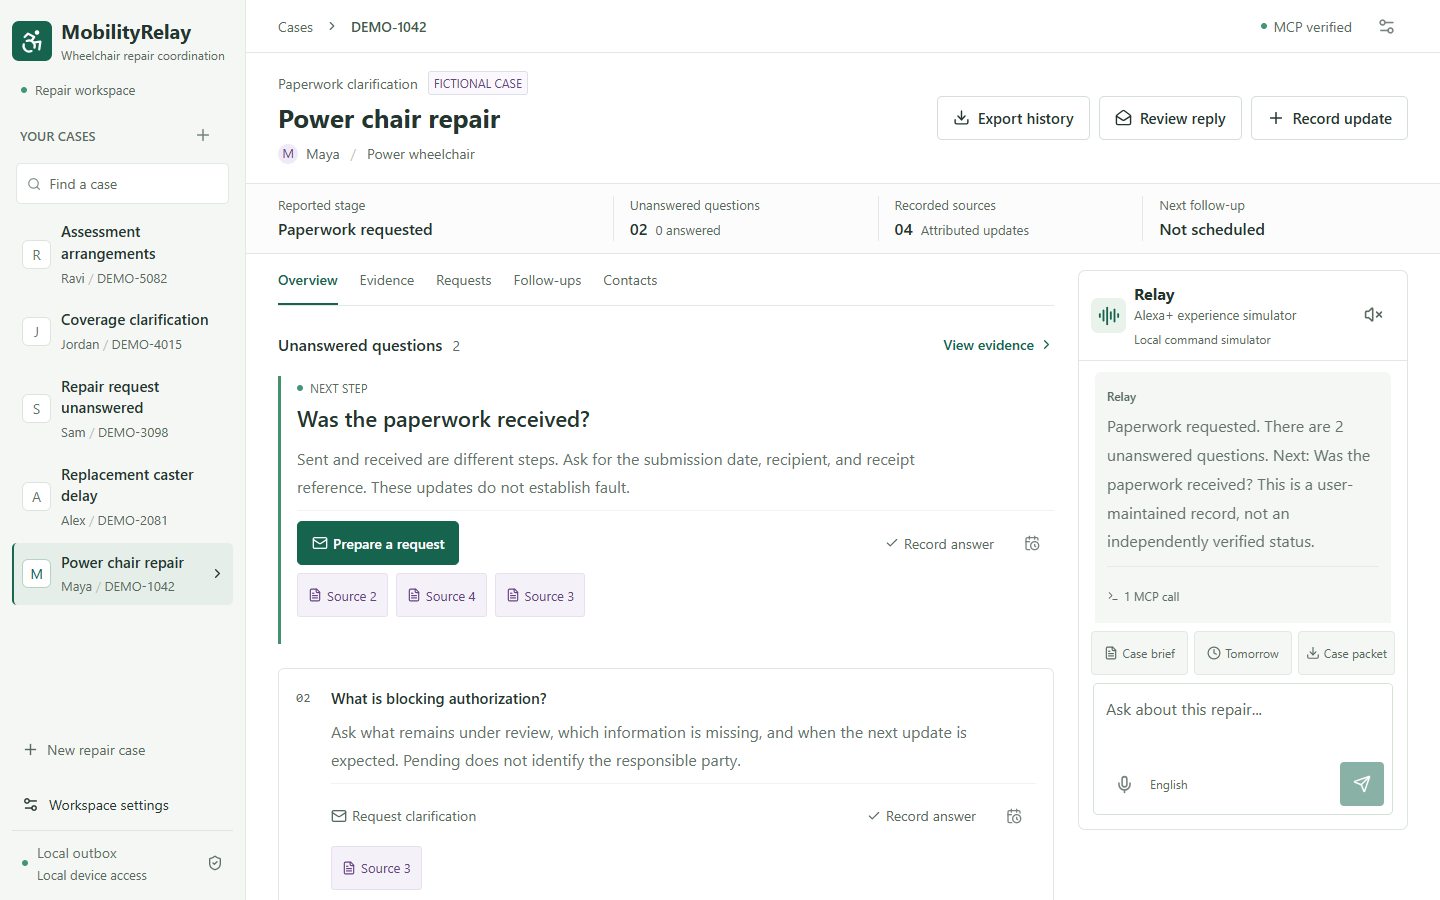
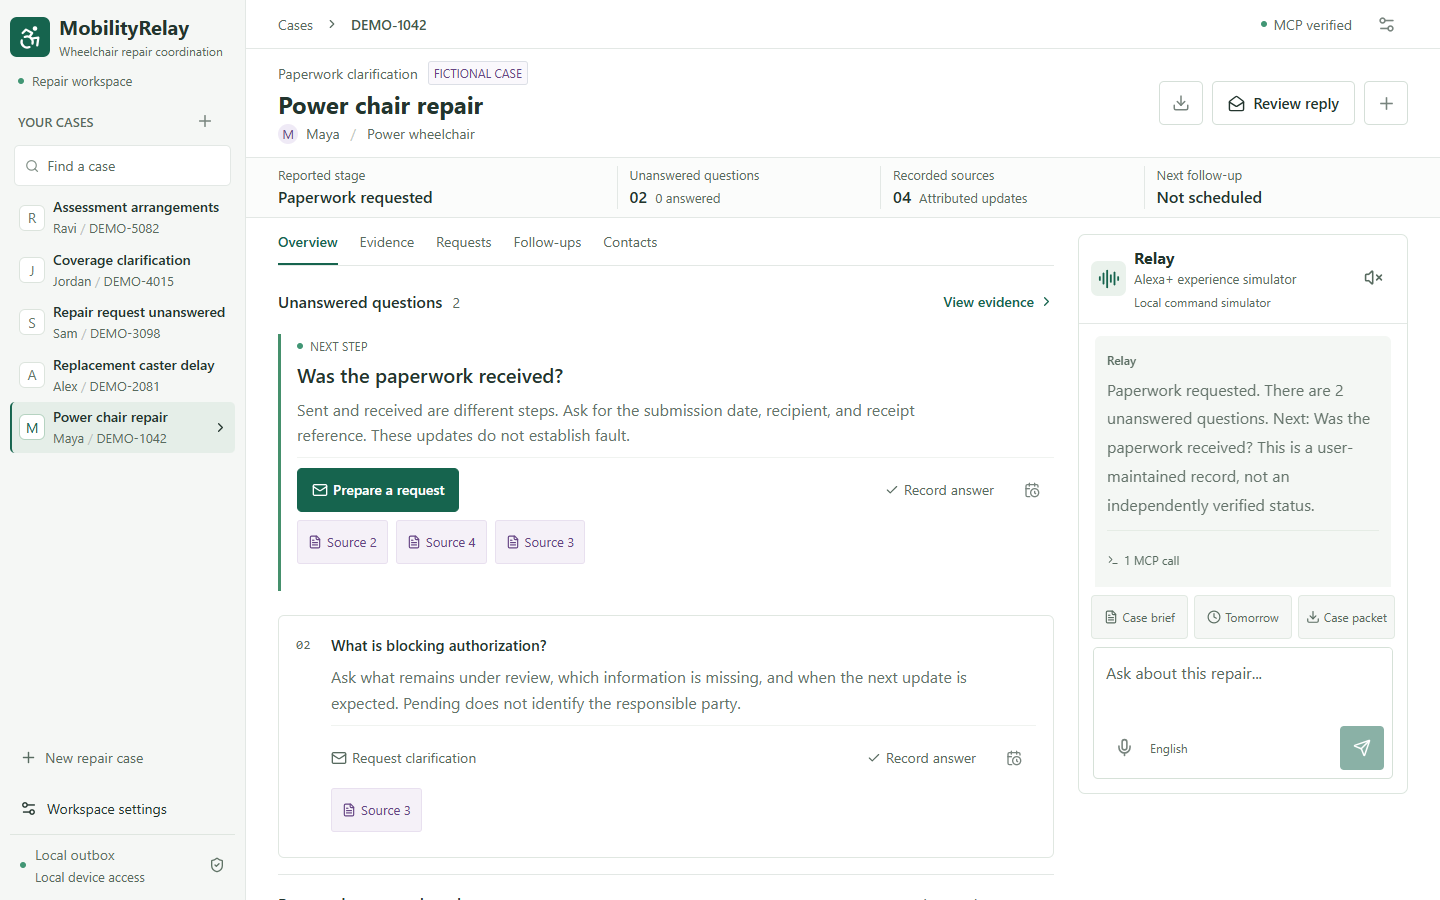
Refine workspace density and unclipped conversation state

diff --git a/src/App.tsx b/src/App.tsx
@@ -19,9 +19,17 @@ export default function App() {
   const [brief, setBrief] = useState<Brief | null>(null); const [messages, setMessages] = useState<ChatMessage[]>([]); const [settings, setSettings] = useState<Settings | null>(null);
   const [tab, setTab] = useState<Tab>('Overview'); const [dialog, setDialog] = useState<Dialog | null>(null); const [busy, setBusy] = useState(false); const [error, setError] = useState(''); const [notice, setNotice] = useState('');
   const [search, setSearch] = useState(''); const [sidebar, setSidebar] = useState(false); const [highlight, setHighlight] = useState(''); const [traces, setTraces] = useState<ToolTrace[]>([]);
+  const caseNavigation = useRef<HTMLElement>(null);
   const [mobile, setMobile] = useState(() => matchMedia('(max-width: 1000px), (max-height: 600px)').matches); const [relayOpen, setRelayOpen] = useState(false);
   useEffect(() => { const media = matchMedia('(max-width: 1000px), (max-height: 600px)'); const change = () => setMobile(media.matches); media.addEventListener('change', change); return () => media.removeEventListener('change', change); }, []);
   selectedRef.current = selected;
+  useEffect(() => {
+    const navigation = caseNavigation.current; const active = navigation?.querySelector('.case-nav.selected');
+    if (!navigation || !active || !navigation.getClientRects().length) return;
+    const bounds = navigation.getBoundingClientRect(); const item = active.getBoundingClientRect();
+    if (item.bottom > bounds.bottom) navigation.scrollTop += item.bottom - bounds.bottom;
+    else if (item.top < bounds.top) navigation.scrollTop -= bounds.top - item.top;
+  }, [selected, cases.length, sidebar]);
   const addTraces = (next: ToolTrace[]) => setTraces(current => [...next, ...current].slice(0, 30));
   const loadCases = async (generation = refreshGeneration.current) => { const list = await api<RepairCase[]>('/api/cases'); if (generation === refreshGeneration.current) setCases(list); return list; };
   const refresh = async (id = selectedRef.current) => {
@@ -85,12 +93,12 @@ export default function App() {
   if (!authenticated) return <main className="login"><Brand /><h1>Sign in to your workspace</h1>{error && <p role="alert" className="error">{error}</p>}<form onSubmit={e => { e.preventDefault(); void run(async () => { const result = await post<{ csrf: string }>('/api/login', { password }); setCsrf(result.csrf); setAuthenticated(true); setSettings(await api('/api/settings')); await loadCases().then(list => setSelected(list[0]?.id ?? '')); }); }}><label>Workspace password<input type="password" autoComplete="current-password" value={password} onChange={e => setPassword(e.target.value)} required /></label><button className="primary" disabled={busy}>Sign in</button></form></main>;
   return <FeedbackContext.Provider value={{ error, busy }}><div className="app-shell">
     {sidebar && <button className="sidebar-scrim" aria-label="Close case navigation" onClick={() => setSidebar(false)} />}
-    <aside className={`sidebar ${sidebar ? 'mobile-open' : ''}`}><Brand><IconButton label="Close navigation" className="mobile-only" onClick={() => setSidebar(false)}><X size={18} /></IconButton></Brand><div className="workspace-label"><span className="status-dot" /> Repair workspace</div><div className="nav-heading"><span>YOUR CASES</span><IconButton label="Create case" onClick={() => setDialog({ type: 'case' })} disabled={busy}><Plus size={18} /></IconButton></div><label className="case-search"><Search size={16} /><input aria-label="Search cases" value={search} onChange={e => setSearch(e.target.value)} placeholder="Find a case" /></label><nav aria-label="Repair cases">{cases.filter(c => `${c.title} ${c.person} ${c.reference}`.toLowerCase().includes(search.toLowerCase())).map(c => <button key={c.id} className={`case-nav ${selected === c.id ? 'selected' : ''}`} onClick={() => choose(c.id)} disabled={busy}><span className="case-avatar">{c.person.slice(0, 1).toUpperCase()}</span><span><strong>{c.title}</strong><small>{c.person} <span> / </span> {c.reference || c.category}</small></span>{selected === c.id && <ChevronRight size={15} />}</button>)}</nav><button className="new-case" onClick={() => setDialog({ type: 'case' })} disabled={busy}><Plus size={17} /> New repair case</button><div className="sidebar-bottom"><button onClick={() => setDialog({ type: 'settings' })}><Settings2 size={17} /> Workspace settings</button><div className="local-status"><span className="status-dot" /><span>{settings?.mailMode === 'smtp' ? 'SMTP configured' : 'Local outbox'}<small>{settings?.protected ? 'Password protected' : 'Local device access'}</small></span><ShieldCheck size={16} /></div></div></aside>
+    <aside className={`sidebar ${sidebar ? 'mobile-open' : ''}`}><Brand><IconButton label="Close navigation" className="mobile-only" onClick={() => setSidebar(false)}><X size={18} /></IconButton></Brand><div className="workspace-label"><span className="status-dot" /> Repair workspace</div><div className="nav-heading"><span>YOUR CASES</span><IconButton label="Create case" onClick={() => setDialog({ type: 'case' })} disabled={busy}><Plus size={18} /></IconButton></div><label className="case-search"><Search size={16} /><input aria-label="Search cases" value={search} onChange={e => setSearch(e.target.value)} placeholder="Find a case" /></label><nav ref={caseNavigation} aria-label="Repair cases">{cases.filter(c => `${c.title} ${c.person} ${c.reference}`.toLowerCase().includes(search.toLowerCase())).map(c => <button key={c.id} className={`case-nav ${selected === c.id ? 'selected' : ''}`} onClick={() => choose(c.id)} disabled={busy}><span className="case-avatar">{c.person.slice(0, 1).toUpperCase()}</span><span><strong>{c.title}</strong><small>{c.person} <span> / </span> {c.reference || c.category}</small></span>{selected === c.id && <ChevronRight size={15} />}</button>)}</nav><button className="new-case" onClick={() => setDialog({ type: 'case' })} disabled={busy}><Plus size={17} /> New repair case</button><div className="sidebar-bottom"><button onClick={() => setDialog({ type: 'settings' })}><Settings2 size={17} /> Workspace settings</button><div className="local-status"><span className="status-dot" /><span>{settings?.mailMode === 'smtp' ? 'SMTP configured' : 'Local outbox'}<small>{settings?.protected ? 'Password protected' : 'Local device access'}</small></span><ShieldCheck size={16} /></div></div></aside>
     <div className="workspace"><header className="topbar"><div><IconButton label="Open case navigation" className="mobile-only" onClick={() => setSidebar(true)}><Menu size={21} /></IconButton><span className="desktop-only">Cases</span><span className="mobile-only mobile-brand">MobilityRelay</span><ChevronRight size={14} /><strong>{brief?.repairCase.reference || 'Workspace'}</strong></div><div><span className="mcp-status"><span className="status-dot" /> {brief ? 'MCP verified' : 'MCP pending'}</span>{mobile && brief && <button className="relay-launch" aria-label="Open Relay" title="Open Relay" onClick={() => setRelayOpen(true)}><AudioLines size={20} /><span>Relay</span></button>}<IconButton label="Workspace settings" onClick={() => setDialog({ type: 'settings' })}><Settings2 size={19} /></IconButton></div></header>
       {error && <div className="alert error" role="alert"><CircleHelp size={18} /><span>{error}</span><IconButton label="Dismiss error" onClick={() => setError('')}><X size={17} /></IconButton></div>}
       {notice && <div className="alert success" role="status"><CheckCircle2 size={18} /><span>{notice}</span></div>}
       {!brief ? <main className="empty-workspace">{selected ? <><LoaderCircle className="spin" size={24} /><h2>Loading case...</h2></> : <><FolderOpen size={42} /><h1>Your repair workspace</h1><button className="primary" onClick={() => setDialog({ type: 'case' })}><Plus size={17} /> New repair case</button></>}</main> : <>
-        <section className="case-heading"><div><div className="eyebrow"><span>{brief.repairCase.category}</span>{brief.repairCase.fictional && <span className="fictional-badge">FICTIONAL CASE</span>}</div><h1>{brief.repairCase.title}</h1><p><span className="person-initial">{brief.repairCase.person.slice(0, 1)}</span>{brief.repairCase.person}<span className="separator">/</span>{brief.repairCase.equipment}</p></div><div className="heading-actions"><button className="secondary compact-action" aria-label="Export history" title="Export history" onClick={() => setDialog({ type: 'export' })} disabled={busy}><Download size={17} /><span>Export history</span></button><button className="secondary" onClick={() => setDialog({ type: 'reply' })} disabled={busy}><MailOpen size={17} /> Review reply</button><button className="secondary compact-action" aria-label="Record update" title="Record update" onClick={() => setDialog({ type: 'event' })} disabled={busy}><Plus size={18} /><span>Record update</span></button></div></section>
+        <section className="case-heading"><div><div className="eyebrow"><span>{brief.repairCase.category}</span>{brief.repairCase.fictional && <span className="fictional-badge">FICTIONAL CASE</span>}</div><h1>{brief.repairCase.title}</h1><p><span className="person-initial">{brief.repairCase.person.slice(0, 1)}</span>{brief.repairCase.person}<span className="separator">/</span>{brief.repairCase.equipment}</p></div><div className="heading-actions"><IconButton className="secondary compact-action" label="Export history" onClick={() => setDialog({ type: 'export' })} disabled={busy}><Download size={18} /></IconButton><button className="secondary" onClick={() => setDialog({ type: 'reply' })} disabled={busy}><MailOpen size={17} /> Review reply</button><IconButton className="secondary compact-action" label="Record update" onClick={() => setDialog({ type: 'event' })} disabled={busy}><Plus size={19} /></IconButton></div></section>
         <div className="case-metrics"><div><span>Reported stage</span><strong>{brief.reportedStage}</strong></div><div><span>Unanswered questions</span><strong>{open.length.toString().padStart(2, '0')}<small>{answered.length} answered</small></strong></div><div><span>Recorded sources</span><strong>{brief.events.length.toString().padStart(2, '0')}<small>Attributed updates</small></strong></div><div><span>Next follow-up</span><strong>{scheduled[0] ? time(scheduled[0].dueAt, scheduled[0].timezone) : 'Not scheduled'}{scheduled[0] && <small>{scheduled[0].timezone}</small>}</strong></div></div>
         <div className={`content-layout ${mobile ? 'relay-drawer-layout' : ''}`}><main className="case-content"><div className="tabs" role="tablist" aria-label="Case views">{(['Overview', 'Evidence', 'Requests', 'Follow-ups', 'Contacts'] as Tab[]).map(t => <button key={t} role="tab" aria-selected={tab === t} className={tab === t ? 'active' : ''} onClick={() => setTab(t)}>{t}{t === 'Requests' && drafts.length > 0 && <span>{drafts.length}</span>}</button>)}</div>
           {tab === 'Overview' && <>

diff --git a/src/styles.css b/src/styles.css
@@ -146,8 +146,6 @@ h1, h2, h3, p { margin-top: 0; }
 .assistant-heading span { font-size: 12px; color: #8d998f; }
 .assistant-heading .simulator-label { display: block; font-size: 14px; line-height: 1.5; color: #586c60; margin-bottom: 3px; overflow-wrap: anywhere; }
 .conversation { overflow-y: auto; flex: 1; padding: 16px; min-height: 180px; }
-.assistant-empty { text-align: center; padding: 64px 12px 20px; color: #a2b4a9; }
-.assistant-empty h3 { font-size: 16px; color: #587460; font-weight: 500; margin: 17px 0 8px; }
 .assistant-empty p { font-size: 14px; color: #93a198; }
 .message { margin-bottom: 18px; padding: 12px 12px 10px; background: #f4f7f4; border-radius: 6px; overflow-wrap: anywhere; }
 .message.message-user { background: #fff; border-left: 2px solid #c3d7cb; padding-left: 10px; }
@@ -354,27 +352,36 @@ input::placeholder, textarea::placeholder { color: var(--muted); }
 }
 
 /* Keep the current task above supporting history without reducing readable type. */
-.sidebar { padding: 18px 12px 12px; overflow: hidden; }
+.sidebar { padding: 14px 10px 10px; overflow: hidden; }
 .sidebar > :not(nav) { flex-shrink: 0; }
 .sidebar nav { flex: 1 1 auto; min-height: 0; overflow-y: auto; scrollbar-width: thin; overscroll-behavior: contain; }
-.workspace-label { margin: 17px 9px 15px; }
-.case-search { margin-bottom: 8px; }
-.case-nav { padding: 9px 8px; }
-.case-nav small { margin-top: 3px; }
-.sidebar-bottom { margin-top: 0; padding-top: 10px; }
-.local-status { padding-top: 12px; margin-top: 4px; }
-.topbar { min-height: 52px; padding-block: 4px; }
-.case-heading { padding-block: 18px; gap: 16px; }
-.case-heading h1 { margin-bottom: 8px; font-size: 26px; }
-.eyebrow { margin-bottom: 7px; }
-.case-metrics { padding-block: 12px; gap: 16px; }
+.workspace-label { margin: 12px 8px 10px; }
+.nav-heading { margin-bottom: 2px; }
+.case-search { margin-bottom: 6px; }
+.sidebar nav { gap: 2px; }
+.case-nav { min-height: 44px; padding: 6px 7px; gap: 8px; }
+.case-nav strong { font-size: 14px; line-height: 1.35; }
+.case-nav small { margin-top: 2px; line-height: 1.35; }
+.case-avatar { width: 26px; height: 26px; flex-basis: 26px; }
+.new-case { min-height: 44px; padding-block: 10px; }
+.sidebar-bottom { margin-top: 0; padding-top: 8px; }
+.local-status { padding-top: 10px; margin-top: 4px; }
+.topbar { min-height: 48px; padding-block: 2px; }
+.case-heading { padding-block: 12px; gap: 14px; }
+.case-heading h1 { margin-bottom: 4px; font-size: 24px; }
+.eyebrow { margin-bottom: 4px; }
+.heading-actions > .compact-action { flex: 0 0 44px; min-width: 44px; width: 44px; padding: 0; }
+.case-metrics { padding-block: 8px; gap: 12px; }
 .case-metrics > div > span { margin-bottom: 3px; }
+.case-metrics strong { line-height: 1.4; }
 .content-layout { gap: 24px; }
 .content-layout.relay-drawer-layout { grid-template-columns: minmax(0, 1fr); }
-.tabs { min-height: 52px; margin-bottom: 16px; }
-.tabs button { padding-block: 14px 12px; }
+.tabs { min-height: 48px; margin-bottom: 14px; }
+.tabs button { padding-block: 12px 10px; }
 .questions > .section-title { margin-bottom: 10px; }
 .question-item.next-step { padding-top: 4px; }
+.question-item.next-step h2 { font-size: 20px; line-height: 1.4; margin-bottom: 8px; }
+.question-item p { line-height: 1.6; }
 .section-kicker { margin-bottom: 7px; }
 .question-actions > button.primary { background: var(--green); color: #fff; padding: 10px 14px; border: 1px solid var(--green); }
 .question-actions > .primary:hover:not(:disabled) { background: var(--green-dark); color: #fff; }
@@ -398,8 +405,8 @@ input::placeholder, textarea::placeholder { color: var(--muted); }
 .assistant-commands { padding: 8px 12px; gap: 6px; flex-wrap: nowrap; }
 .assistant-commands button { flex: 1; min-width: 0; justify-content: center; padding: 8px 4px; gap: 4px; font-size: 12px; }
 .conversation { min-height: 48px; }
-.assistant-empty { padding: 22px 10px; }
-.assistant-empty h3 { margin-top: 12px; }
+.conversation.is-empty { display: flex; align-items: center; justify-content: center; padding: 8px 12px; min-height: 40px; }
+.assistant-empty { margin: 0; padding: 0; color: var(--muted); font-size: 14px; line-height: 20px; text-align: center; }
 .composer textarea { height: 72px; min-height: 72px; max-height: 72px; resize: none; }
 .modal .assistant { height: min(620px, calc(100dvh - 112px)); max-height: calc(100dvh - 112px); }
 @media (max-width: 760px) {

diff --git a/tests/qa.spec.ts b/tests/qa.spec.ts
@@ -4,6 +4,39 @@ import { mkdir, writeFile } from 'node:fs/promises';
 
 const viewTab = (page: Page, name: string) => page.getByRole('tab', { name: name === 'Requests' ? /^Requests(?: \d+)?$/ : name, exact: true });
 
+test('compact assessment workspace keeps icon commands accessible and the empty conversation unclipped', async ({ page }, info) => {
+  test.setTimeout(120000);
+  for (const viewport of [{ width: 1248, height: 680 }, { width: 1440, height: 900 }, { width: 390, height: 844 }]) {
+    await page.setViewportSize(viewport); await page.goto('/');
+    await expect(page.getByRole('heading', { name: 'Power chair repair', exact: true })).toBeVisible();
+    if (viewport.width <= 760) await page.getByRole('button', { name: 'Open case navigation', exact: true }).click();
+    await expect(page.locator('.case-nav.selected')).toBeInViewport({ ratio: 1 });
+    await page.getByRole('button', { name: /Assessment arrangements Ravi/ }).click();
+    await expect(page.getByRole('heading', { name: 'Assessment arrangements', exact: true })).toBeVisible();
+    for (const name of ['Export history', 'Record update']) {
+      const command = page.locator('.heading-actions').getByRole('button', { name, exact: true });
+      await expect(command).toHaveAttribute('title', name);
+      expect(await command.innerText()).toBe('');
+      const bounds = (await command.boundingBox())!;
+      expect(bounds.width).toBe(44); expect(bounds.height).toBe(44);
+    }
+    if (viewport.width > 760) {
+      expect((await page.locator('.case-heading').boundingBox())!.height).toBeLessThanOrEqual(130);
+      expect((await page.locator('.case-metrics').boundingBox())!.height).toBeLessThanOrEqual(76);
+      await expect(page.locator('.case-nav.selected')).toBeInViewport({ ratio: 1 });
+    }
+    await expect(page.locator('.question-item.next-step p').first()).toHaveCSS('font-size', '16px');
+    await page.screenshot({ path: `.data/screenshots/${info.project.name}-compact-overview-${viewport.width}.png` });
+    if (viewport.width <= 1000) await page.getByRole('button', { name: 'Open Relay', exact: true }).click();
+    const log = page.getByRole('log', { name: 'Repair conversation', exact: true });
+    await expect(log.getByText('No messages yet', { exact: true })).toBeInViewport({ ratio: 1 });
+    expect(await log.evaluate(element => element.scrollHeight <= element.clientHeight + 1)).toBe(true);
+    await expect(page.getByRole('textbox', { name: 'Message to Relay', exact: true })).toBeInViewport({ ratio: 1 });
+    expect((await new AxeBuilder({ page }).withTags(['wcag2a', 'wcag2aa', 'wcag21a', 'wcag21aa']).analyze()).violations).toEqual([]);
+    await page.screenshot({ path: `.data/screenshots/${info.project.name}-compact-empty-relay-${viewport.width}.png` });
+  }
+});
+
 test('next action and Relay input fit the first screen across desktop, tablet and mobile', async ({ page }, info) => {
   test.setTimeout(120000);
   for (const viewport of [{ width: 1248, height: 680 }, { width: 1440, height: 900 }, { width: 768, height: 900 }, { width: 390, height: 844 }, { width: 1366, height: 600 }]) {

diff --git a/src/components.tsx b/src/components.tsx
@@ -103,8 +103,8 @@ export function Assistant({ messages, busy, suspended = false, settings, onSend,
   };
   const submit = async (value: string) => { if (!value.trim() || busy || suspended) return; cancelVoice(); setListening(false); cancelSpeech(); const prior = text; setText(''); try { await onSend(value.trim(), cloud); } catch { setText(prior || value); } };
   return <aside ref={panel} className="assistant" aria-label="Simulated Alexa+ repair conversation"><div className="assistant-heading"><div className="relay-icon"><AudioLines size={22} /></div><div><h2>Relay</h2><span className="simulator-label">Alexa+ experience simulator</span><span>{agentLabel(settings)}</span></div><IconButton label={sound ? 'Mute spoken responses' : 'Enable spoken responses'} onClick={() => { if (sound && 'speechSynthesis' in window) speechSynthesis.cancel(); setSound(!sound); }}><span>{sound ? <Volume2 size={19} /> : <VolumeX size={19} />}</span></IconButton></div>
-    <div className="conversation" role="log" aria-label="Repair conversation" aria-live="polite">
-      {!messages.length && <div className="assistant-empty"><AudioLines size={28} /><h3>Your repair, one next step.</h3><p>Case record connected</p></div>}
+    <div className={`conversation ${!messages.length && !busy ? 'is-empty' : ''}`} role="log" aria-label="Repair conversation" aria-live="polite">
+      {!messages.length && !busy && <p className="assistant-empty">No messages yet</p>}
       {messages.map(message => <div key={message.id} className={`message message-${message.role}`}><span className="message-author">{message.role === 'assistant' ? 'Relay' : 'You'}</span><p>{message.text}</p>{message.traces.length > 0 && <details className="tool-trace"><summary><Terminal size={12} /> {message.traces.length} MCP {message.traces.length === 1 ? 'call' : 'calls'}</summary>{message.traces.map((t, i) => <div key={i}><span>{t.tool}</span><span>{t.ok ? `${t.durationMs} ms` : 'Failed'}</span></div>)}</details>}</div>)}
       {busy && <WaitingStatus />}<div ref={end} />
     </div>

diff --git a/docs/project-guide.md b/docs/project-guide.md
@@ -63,8 +63,11 @@ supporting reports. Expand **Reported paperwork updates** or **Recent evidence**
 when needed; **Evidence** always retains the full history. The compact case
 header keeps the record readable without taking over the first screen. Relay
 fits the remaining desktop height, with its message input fixed inside the
-panel. On tablet/mobile or short windows, the labelled **Relay** button opens
-the conversation in a dialog. Chat scrolling stays inside the conversation.
+panel. Export and record-update commands use download/plus icons with accessible
+names and tooltips; review reply remains a labelled command. The sidebar keeps
+the selected case visible within its own list. On tablet/mobile or short windows,
+the labelled **Relay** button opens the conversation in a dialog. Chat scrolling
+stays inside the conversation; its empty state is simply **No messages yet**.
 
 ### Review a Reply: What Changed?
 
@@ -409,6 +412,28 @@ not establish the native toolkit's sub-500 ms query target.
 [Alexa+ quickstart](https://developer.amazon.com/docs/alexaplus/add-ons/mcp-toolkit-quickstart.html).
 
 ## 4. Testing and Latest Results
+
+### Compact Workspace Refinement: October 21
+
+The header now uses 44px export/update icon commands with accessible names and
+tooltips, a smaller title and tighter spacing. Sidebar rows are more compact;
+selecting a case scrolls only its navigation list as needed. Main question copy
+remains 16px. Relay's empty state no longer has a large illustration or clipped
+tagline: **No messages yet** fits inside the available conversation area.
+
+The production build and **174 backend tests passed**. The latest full browser
+run passed **69 of 70 checks**. One desktop accessibility check timed out while
+switching from Requests to Follow-ups; the runner also reported an internal
+fixture-step error. The cause is not established. A fresh run passed all **four
+desktop/mobile compact-layout and accessibility checks in 57.2 seconds**, without
+changing assertions or timeouts. This is not an uninterrupted 70/70 suite pass.
+
+The new sizing check covers the fictional assessment case at 1248x680, 1440x900
+and 390x844 CSS pixels. It verifies icon sizes/tooltips, selected-case visibility,
+desktop header/metric heights, readable body text, an unclipped empty log and a
+visible message input. Automated accessibility scans found no violations in
+these tested states. Desktop/mobile screenshots were inspected and the README
+image refreshed. These are automated checks, not independent-user validation.
 
 ### Task-First Workspace: October 21
 

diff --git a/README.md b/README.md
@@ -109,8 +109,8 @@ environment variables, Windows installation guidance and optional integrations.
 
 ## Verification
 
-Latest working-tree verification: **October 21, 2026**, including the task-first
-layout and supplier appointment review. Tests used isolated fictional data on
+Latest working-tree verification: **October 21, 2026**, including the compact
+task-first layout and supplier appointment review. Tests used isolated fictional data on
 Windows / Node 24.11.0 / installed Edge. The earlier published implementation
 `40b4da8` also passed a clean GitHub checkout and empty-cache installation on
 October 20; that installation check does not cover the newer changes.
@@ -118,7 +118,7 @@ October 20; that installation check does not cover the newer changes.
 | Check | Result |
 | --- | --- |
 | Backend tests | All 174 passed, including appointment validation, reply review, rollback, provenance, stale-preview and real HTTP/MCP checks |
-| Desktop/mobile-emulation browser tests | All 68 passed in one 9.3-minute working-tree run; no retries or skips |
+| Desktop/mobile-emulation browser tests | Latest run: 69/70 passed; one desktop accessibility check timed out. A fresh rerun passed all four compact-layout/accessibility checks without relaxed assertions. The preceding task-first run passed 68/68. |
 | TypeScript and production build | Passed |
 | Automated accessibility | No detected violations in tested views, review dialogs and sign-in screens; keyboard-focus checks passed |
 | Actual local AI + MCP | October 19: seven-scenario Ollama-mode API workflow and real-model desktop review/mobile conversation checks passed; reply review itself uses trusted rules, not inference |
